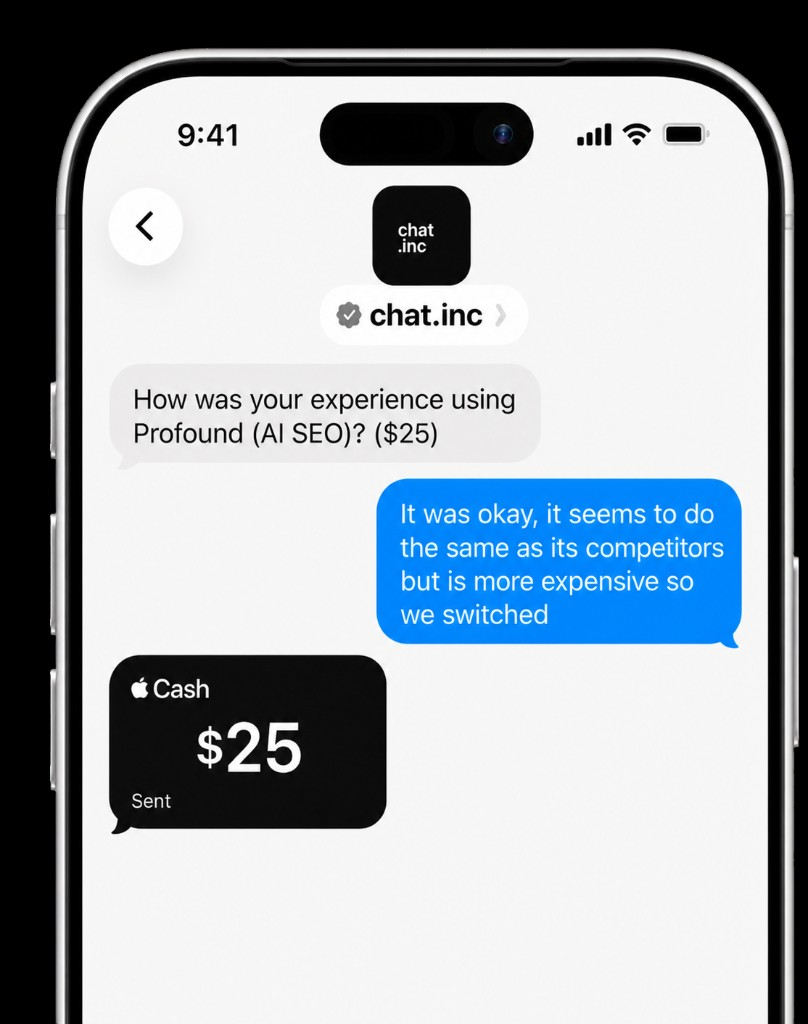
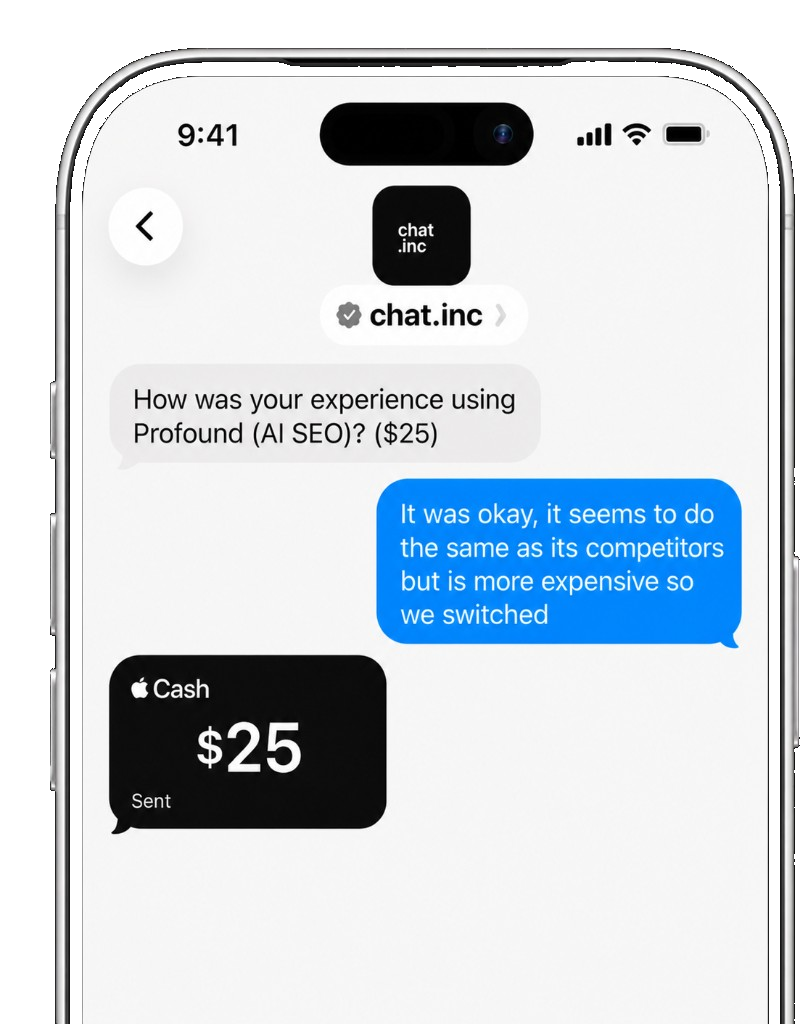
Remove the black backdrop from the phone image.

Changed region(s): [[0.0, 0.0, 1.0, 1.0]]

diff --git a/app/page.tsx b/app/page.tsx
@@ -26,7 +26,7 @@ export default function Home() {
 
           <img
             className="phone"
-            src="/phone.png?v=2"
+            src="/phone.png?v=3"
             alt="chat.inc iMessage conversation paying $25 for an expert answer"
             width={808}
             height={1024}
